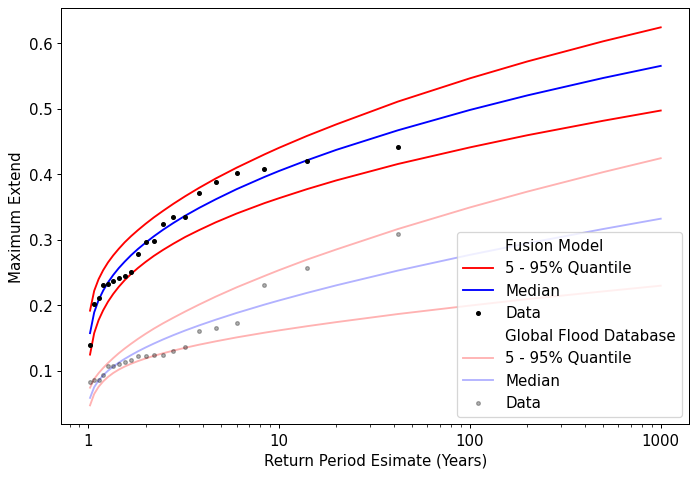
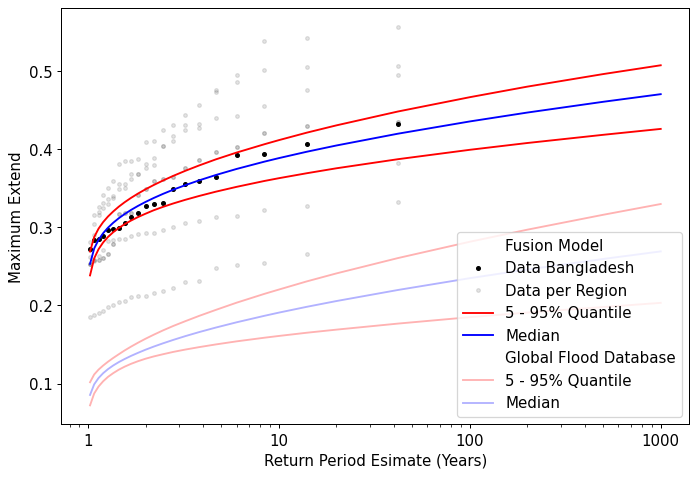
deploy: cbd2eb12271dded113b60988c62bbb71b39edd07

diff --git a/index.html b/index.html
@@ -1,4 +1,4 @@
-<!DOCTYPE html PUBLIC "-//W3C//DTD XHTML 1.0 Transitional//EN" "http://www.w3.org/TR/xhtml1/DTD/xhtml1-transitional.dtd"><html lang="en"><head><meta charset="UTF-8" /><meta content="width=device-width, initial-scale=1" name="viewport" /><link href="/Stylesheets/mainLayout.css" rel="stylesheet" /><link crossorigin="anonymous" href="https://cdnjs.cloudflare.com/ajax/libs/font-awesome/5.14.0/css/all.min.css" integrity="sha512-1PKOgIY59xJ8Co8+NE6FZ+LOAZKjy+KY8iq0G4B3CyeY6wYHN3yt9PW0XpSriVlkMXe40PTKnXrLnZ9+fkDaog==" rel="stylesheet" /><script crossorigin="anonymous" src="https://kit.fontawesome.com/4d394c7085.js"></script><link href="Images/Favicon/apple-touch-icon.png" rel="apple-touch-icon" sizes="180x180" /><link href="Images/Favicon/favicon-32x32.png" rel="icon" sizes="32x32" type="image/png" /><link href="Images/Favicon/favicon-16x16.png" rel="icon" sizes="16x16" type="image/png" /><link href="Images/Favicon/site.webmanifest" rel="manifest" /><link color="#ffe986" href="Images/Favicon/safari-pinned-tab.svg" rel="mask-icon" /><link href="Images/Favicon/favicon.ico" rel="shortcut icon" /><meta content="#da532c" name="msapplication-TileColor" /><meta content="Images/Favicon/browserconfig.xml" name="msapplication-config" /><meta content="#ff5353" name="theme-color" /><title>Jonathan Giezendanner</title><meta content="Jonathan Giezendanner" name="twitter:title" /><meta content="Jonathan Giezendanner" name="twitter:site" /><meta content="website" prefix="og: http://ogp.me/ns#" property="og:type" /><meta content="summary" name="twitter:card" /><meta content="Welcome to the personal website of Jonathan Giezendanner" name="description" /><meta content="Welcome to the personal website of Jonathan Giezendanner" name="twitter:description" /><meta content="https://www.jgiezendanner.com/Images/Profile.png" prefix="og: http://ogp.me/ns#" property="og:image" /><meta content="https://www.jgiezendanner.com/Images/Profile.png" name="twitter:image" /><link href="/Stylesheets/index.css" rel="stylesheet" /></head><body><div id="aboutMe"></div><div class="headerImage"><div class="column"><div class="profileTitle">Dr. Jonathan <b>Giezendanner</b><br />PhD, Engineer</div></div></div><div class="index"><div class="column"><div class="profileImage"><img src="./Images/Profile.png" /></div><div class="headerIcons"><div id="navigation"><nav><a href="#aboutMe"><i class="fa-solid fa-user"></i> About me</a><a href="#science"><i class="fa-solid fa-rocket"></i> Science</a><a href="#gameDev"><i class="fa-solid fa-gamepad"></i> Game Dev</a></nav></div><div class="social"><nav><a class="icon icon-linkedin" href="https://www.linkedin.com/in/j-giezendanner/" rel="noopener noreferrer" target="_blank"></a><a class="icon icon-github" href="https://github.com/GieziJo" rel="noopener noreferrer" target="_blank"></a><a class="icon icon-scholar" href="https://scholar.google.ch/citations?user=cNxEnK4AAAAJ" rel="noopener noreferrer" target="_blank"></a><a class="icon icon-twitter" href="https://twitter.com/JoGiezi" rel="noopener noreferrer" target="_blank"></a></nav></div></div><div class="contentSection"><div class="intro" id="aboutMeIntro">Passionate about the natural environment, machine learning and remote sensing, my principal focus is on <b class="highlightText">Deep Learning</b> using <b class="highlightText">Remote Sensing</b> applied to <b class="highlightText">Flood Mapping</b> and other environmental and societal challenges.<br /><br />Interested in technology, I am proficient in multiple programing languages (e.g. c#, Python, javascript) and frameworks, such as <a href="https://www.fast.ai/">fast.ai</a>, <a href="https://pytorch.org/">PyTorch</a>, and <a href="https://code.earthengine.google.com/">Google Earth Engine</a>, as well as <a href="https://www.docker.com/">Docker</a> for deployment and HPCs for model training.<br /><br />Currently Postdoctoral Research Associate at the <a href="https://www.arizona.edu/" rel="noopener noreferrer" target="_blank">Univerity of Arizona</a> in the <a href="https://beth-tellman.github.io/" rel="noopener noreferrer" target="_blank">Social [Pixel] Lab</a> led by Prof. E. Tellman Sullivan in Tucson.<br /><a class="LearnMoreLink" href="#science">➞ My research</a><br /><br />As a passion project, I co-founded the company <a href="https://earlycoffee.games/" rel="noopener noreferrer" target="_blank">Early Coffee Games</a> where I am the lead developer.<br /><a class="LearnMoreLink" href="#gameDev">➞ My Game Dev Studio</a><br /><br /><br /><a href="CV_Giezendanner.pdf" id="fullCV" rel="noopener noreferrer" target="_blank"><i class="fa-solid fa-file"></i> Full CV</a></div></div></div><div id="background"><div class="column"><div class="contentSection"><h1>About Me</h1>With a background in <b>Environmental and Computational Engineering and Sciences</b>, from the <a href="https://epfl.ch/en" rel="noopener noreferrer" target="_blank">Swiss Federal Institute of Technology Lausanne</a>, I had an education which allowed me to marry modeling with environmental problems and its applications.<br /><br />My PhD in thereotical ecology at the <a href="https://www.epfl.ch/labs/echo/">Laboratory of Ecohydrology</a> led by Prof. A. Rinaldo, allowed me to get a deep understanding in mathematical modeling applied to process based models, all while furthering my knowledge in probabilities, statistics, and machine learning models.<br /><br />Currently working in the <a href="https://beth-tellman.github.io/" rel="noopener noreferrer" target="_blank">Social [Pixel] Lab</a> led by Prof. E. Tellman Sullivan at the <a href="https://www.arizona.edu/">University of Arizona</a>, I am expanding my understanding of <b>Deep Learning</b> methods applied to floods and other challenging problems linked to the environment and its impact on society.<br /><br />In my spare time, I co-founded the company <a href="https://earlycoffee.games/" rel="noopener noreferrer" target="_blank">Early Coffee Games</a> with a good friend of mine. We have been active in the game development scene for about 10 years, and are currently developing our first commercial game, <a href="https://Underwatertale.com">Hermit: an Underwater Tale</a>. The game has received several grants for its development and promotion.<br /><br />In my free time, I enjoy mountaineering, skiing (when I'm not living in the desert), road and mountain biking, board and video games, movies, music (especially music festivals, I used to organise one), and last but not least, cheese, coffee and beer.</div></div></div><div id="science"><div class="column"><div class="contentSection"><h1>Science</h1><div class="intro">The common theme throughout my work has been mathematical modeling of environmental challenges, be it as it currently is flood mapping with deep learning, or previously process based models of population dynamics.<br /><br />In both my current and past work, optimisation and inference have played a major role.<br /><br />Presented here are chosen topics of my current and past work (wip).</div></div></div></div><div id="scienceCurrent"><div class="column"><div class="contentSection"><h2>Current Work</h2>My current work focuses on developing novel Deep Learning solutions to Remote Sensing products in order to address environmental and societal challenges, mainly, but not exclusively, flood mapping.<br /><br />Presented here is my main work on flood mapping.<br /><br /></div></div><div id="NIP"><div class="column"><div class="contentSection"><div class="scienceWorkContent"><h3>Historical Mapping of Bangladesh Floods - MODIS / Sentinel-1 DL Fusion</h3>Economic impacts of floods push people into poverty and cause setbacks to development as government budgets are stretched and people without financial protection are forced to sell assets.<br /><br />Accurate return period estimates of flood events are paramount to develop robust insurance products.<br /><br />By combining historical MODIS satellite images with modern Sentinel-1 images, we produce reliable return period estimates.<br /><br /><div class="NIPInsert" id="NIPModelImg"><a href="./Images/Science/NIP/FrameworkSchemaModel.png" rel="noopener noreferrer" target="_blank"><img src="./Images/Science/NIP/FrameworkSchemaModel.png" /></a><span>Schematic representation of the proposed framework. Based on a Sentinel-1 derived flood map, aggregated at 500 meter resolution, we train a fusion model which infers the fraction of flooded area in each pixel based on MODIS features.</span></div><br />The proposed framework takes advantage of the ability of radar to "see" water even through clouds, one of the major challenges of flood mapping.<div class="NIPInsert rightInsert" id="NIModel"><a href="./Images/Science/NIP/modelSchema.png" rel="noopener noreferrer" target="_blank"><img src="./Images/Science/NIP/modelSchema.png" /></a><span>Details of Fusion model consisting in a series of Convolutional Neural Networks (CNNs) applied to MODIS 8-days composite images, passed through a Long Short Term Memory (LSTM) network, and later merged with the MODIS image at time t, to finally go through a last CNN.</span></div><br /><br />By crating a model able to fuse MODIS 8-days  composite images with Sentinel-1 derived fraction of flooded area, we infer a 20 years long historical time series over Bangladesh based on the 20 years long MODIS time series.<br /><br />The data to train, test and validate the model is comprised of every 32x32 500 meters resolution chip where MODIS 8days composite and Sentinel-1 fully overlap. Sentinel-1 is available since 2017.<br /><br />The proposed model takes advantage of both the spatial and temporal information contained in MODIS images.<br /><br />For each time step, the n previous time steps are considered to make a prediction on the fraction of flooded area, leveraging the temporal dynamics of floods.<br /><br />Each image first goes through a <a href="https://towardsdatascience.com/a-comprehensive-guide-to-convolutional-neural-networks-the-eli5-way-3bd2b1164a53" rel="noopener noreferrer" target="_blank">Convolutional Neural Network (CNN)</a>, extracting the spatial information and compiling the multi bands information into a single value for each pixel.<br /><br />This generates a series of values for each pixel, which is then passed through a <a href="https://colah.github.io/posts/2015-08-Understanding-LSTMs/" rel="noopener noreferrer" target="_blank">Long Short Term Memory (LSTM)</a> network designed to, through a series of gates, predict the probability of flood to be present.<br /><br />Finally, the output of the LSTM is combined with the MODIS composite image at time t and passed through a final CNN, generating a prediction for the fraction of flooded area for each pixel in the image.<br /><br /><div id="NIPResult"><div class="NIPInsert" id="NIPMappedImg"><a href="./Images/Science/NIP/Mapped.png" rel="noopener noreferrer" target="_blank"><img src="./Images/Science/NIP/Mapped.png" /></a><span>MODIS False Color Composite (FCC) along with Observed and Inferred fraction of flooded area, result of deep learning fusion between MODIS and derived Sentinel-1 data, with error, for a chosen date selected out of the testing Set (Aug. 7 2018).</span></div><div class="NIPInsert" id="NIPErrorImg"><a href="./Images/Science/NIP/ErrorDistribution.png" rel="noopener noreferrer" target="_blank"><img src="./Images/Science/NIP/ErrorDistribution.png" /></a><span>Error distribution for a single day (Aug. 7 2018) between the observation (Sentinel-1 algorithm) and Model.</span></div></div><br /><div class="NIPInsert leftInsert" id="NIPTimeSeriesImg"><a href="./Images/Science/NIP/TimeSeries.png" rel="noopener noreferrer" target="_blank"><img src="./Images/Science/NIP/TimeSeries.png" /></a><span>Observed and Inferred time series of fraction of flooded area for a single chip (see above) for the training and testing set. This model is used for the historical time series inference (see below).</span></div><br /><br />For the testing, a single year (2018) is completely removed from the dataset.<br /><br />The result of the developed fusion model is shown here for a single day (August 7 2018) on all available chips for this day, and as a time series for the highlighted chip for all dates this chip is present, as examples of inference on the testing dataset.<br /><br />The 
-  var R<sup>2</sup> of 0.72 shows a good agreement between the observed and modeled data.<br /><br />The time series shows that the low water values during the dry season are well modeled, and the peaks during the monsoon and irrigation season correctly reproduced.<br /><br />This result permits us to run inference on the historical data in order to produce an estimate for 2001-2020.<br /><br /><div id="NIPResult"><div class="NIPInsert" id="NIPYearlyMaxImg"><a href="./Images/Science/NIP/YearlyMaximum.png" rel="noopener noreferrer" target="_blank"><img src="./Images/Science/NIP/YearlyMaximum.png" /></a><span>Historical yearly maxima of fraction of flooded area inferred from the trained model and run on the historical MODIS dataset. Comparison with the <a href="https://github.com/cloudtostreet/MODIS_GlobalFloodDatabase" target="_blank" rel="noopener noreferrer"> Global Flood Database algorithm (GFD)</a>.</span></div><div class="NIPInsert" id="NIPReturnPeriodImg"><a href="./Images/Science/NIP/ReturnPeriod.png" rel="noopener noreferrer" target="_blank"><img src="./Images/Science/NIP/ReturnPeriod.png" /></a><span>Return period estimates based on the newly proposed MODIS Sentinel-1 fusion algorithm and on the GFD algorithm for the historical time series 2001-2020.</span></div></div><br />The yearly maximum of the inferred historical data is compared to another MODIS algorithm, the <a href="https://github.com/cloudtostreet/MODIS_GlobalFloodDatabase" target="_blank" rel="noopener noreferrer">Global Flood Database algorithm (GFD)</a> for the same area and period.<br /><br />The developed methods shows similar trends with GFD, but a more realistic yearly maximum according to the time series analysis above.<br /><br />This inferred data permits to construct more realistic return period estimates.<br /></div></div></div></div></div><div id="publications"><div class="column"><div class="contentSection"><h2>Publications</h2><div id="papers"><div class="paper" onclick="window.open('https://agupubs.onlinelibrary.wiley.com/doi/full/10.1029/2021WR029813')"><div class="paperTitle">A note on the role of seasonal expansions and contractions of the flowing fluvial network on metapopulation persistence</div><div class="paperInfo"><b>Giezendanner, J</b>, Benettin, P, Durighetto, N, Botter, G, Rinaldo, A<br /><i>Water Resources Research, 2021</i></div></div><div class="paper" onclick="window.open('https://www.pnas.org/doi/10.1073/pnas.1919580117')"><div class="paperTitle">Earth and field observations underpin metapopulation dynamics in complex landscapes: Near-term study on carabids</div><div class="paperInfo"><b>Giezendanner, J</b>, Pasetto, D, Perez-Saez, J, Cerrato, C, Viterbi, R, Terzago, S, Palazzi, E, Rinaldo, A<br /><i>Proceedings of the National Academy of Sciences, 2020</i></div></div><div class="paper" onclick="window.open('https://infoscience.epfl.ch/record/273932?ln=en')"><div class="paperTitle">Beyond the patch: on landscape-explicit metapopulation dynamics</div><div class="paperInfo"><b>Giezendanner, J</b><br /><i>PhD Thesis, 2020</i></div></div><div class="paper" onclick="window.open('https://www.sciencedirect.com/science/article/pii/S0022519318305848')"><div class="paperTitle">On the probabilistic nature of the species-area relation</div><div class="paperInfo">Zaoli, S, Giometto, A, <b>Giezendanner, J</b>, Maritan, A, Rinaldo, A<br /><i>Journal of Theoretical Biology, 2019</i></div></div><div class="paper" onclick="window.open('https://journals.plos.org/plosone/article?id=10.1371/journal.pone.0213775')"><div class="paperTitle">A minimalist model of extinction and range dynamics of virtual mountain species driven by warming temperatures</div><div class="paperInfo"><b>Giezendanner, J</b>, Bertuzzo, E, Pasetto, D, Guisan, A, Rinaldo, A<br /><i>PLoS One, 2019</i></div></div><div class="paper" onclick="window.open('https://ieeexplore.ieee.org/document/7759277')"><div class="paperTitle">Towards 3-D distributed odor source localization: an extended graph-based formation control algorithm for plume tracking</div><div class="paperInfo">Soares, J M, Marjovi, A, <b>Giezendanner, J</b>, Kodiyan, A, Aguiar, A P, Pascoal, A M, Martinoli, A<br /><i>IEEE/RSJ International Conference on Intelligent Robots and Systems (IROS), 2016</i></div></div><div class="paper" onclick="window.open('https://archive.ismrm.org/2016/0022.html')"><div class="paperTitle">Automatic quality assessment of short and long-TE brain tumour MRSI data using novel Spectral Features</div><div class="paperInfo">de Barros, N P, McKinley, R, <b>Giezendanner, J</b>, Knecht, U, Wiest, R, Slotboom, J<br /><i>Proc. Intl. Soc. Mag. Reson. Med, 2016</i></div></div><div class="paper" onclick="window.open('https://infoscience.epfl.ch/record/213510?ln=en')"><div class="paperTitle">Rainfall Forecasting in Burkina Faso Using Bayesian-Wavelet Neural Networks</div><div class="paperInfo"><b>Giezendanner, J</b><br /><i>Master Thesis, 2015</i></div></div></div></div></div></div><div id="gameDev"><div class="column"><div class="contentSection"><h1>Game Development</h1><div class="EarlyCoffeeImg" onclick="window.open('https://EarlyCoffee.Games')"><img src="./Images/GameDev/EarlyCoffeeGamesLogo.png" /></div><div class="intro">Hobby game developer since 2014, I turned semi-professional in 2020 by co-founding <a href="https://EarlyCoffee.Games" rel="noopener noreferrer" target="_blank">Early Coffee Games</a>. We are currently developing <a href="https://Underwatertale.com" rel="noopener noreferrer" target="_blank">Hermit: an Underwater Tale</a>.<br /></div><h2>Backstory</h2>Game development started for me as a silly distraction and creative outlet in 2014 when Tristan Thévenoz approached me. Tristan is a classically educated artist, proficient in multiple forms of expression and passionate about the creative process. His love of video games led him to dabble in pixel art in 2013, and he was then looking for somebody to work with, on the technical aspect. This is when he approached me, and we soon became friends and started working on one silly project after the other.<br /><br />In our early days, we had the chance to get approached by an artist called <a href="https://www.francoisburland.com/" rel="noopener noreferrer" target="_blank">François Burland</a>, who was interested in hiring us to create video games for his arts installation. Over the course of three years, under the umbrella of <a href="https://sharpedstonestudios.ch" rel="noopener noreferrer" target="_blank">Sharped Stone Studios</a> , we participated in two different arts installation, each time trying to incorporate the essence of the artists' vision we were working with:<ul><li><b>SuperNova (2017)</b>, set in Martigny, a small town in the middle of the Alps in Switzerland, the exhibition focused on cultural landmarks in and around Martigny, reinterpreted by various artists. We developed <a href="https://itch.io/c/392769/supernova-martigny" rel="noopener noreferrer" target="_blank">two games</a> dedicated to the pizza places and roundabouts, both very abundant in Martigny.</li><li><b>Atomic Bazar (2018 - 2019)</b>, set in Fribourg, this exhibition was set around François' vision of the cold war. We developed <a href="https://itch.io/c/379794/atomik-bazar">four games</a>, meant to encaplusalte his vision and art into games.</li></ul><h2>Early Coffee Games</h2><a href="https://EarlyCoffee.Games" rel="noopener noreferrer" target="_blank">Early Coffee Games</a> is a game development company based in Switzerland we created in 2020 with Tristan. The company is our step into semi-professional game development.<br /><br />Since its creation, the company can note a couple of successes:<ul><li>In 2020 we received the <b><a href="https://prohelvetia.ch" target="_blank"  rel="noopener noreferrer">ProHelvetia</a> pre-production grant</b> for our debut game 
+<!DOCTYPE html PUBLIC "-//W3C//DTD XHTML 1.0 Transitional//EN" "http://www.w3.org/TR/xhtml1/DTD/xhtml1-transitional.dtd"><html lang="en"><head><meta charset="UTF-8" /><meta content="width=device-width, initial-scale=1" name="viewport" /><link href="/Stylesheets/mainLayout.css" rel="stylesheet" /><link crossorigin="anonymous" href="https://cdnjs.cloudflare.com/ajax/libs/font-awesome/5.14.0/css/all.min.css" integrity="sha512-1PKOgIY59xJ8Co8+NE6FZ+LOAZKjy+KY8iq0G4B3CyeY6wYHN3yt9PW0XpSriVlkMXe40PTKnXrLnZ9+fkDaog==" rel="stylesheet" /><script crossorigin="anonymous" src="https://kit.fontawesome.com/4d394c7085.js"></script><link href="Images/Favicon/apple-touch-icon.png" rel="apple-touch-icon" sizes="180x180" /><link href="Images/Favicon/favicon-32x32.png" rel="icon" sizes="32x32" type="image/png" /><link href="Images/Favicon/favicon-16x16.png" rel="icon" sizes="16x16" type="image/png" /><link href="Images/Favicon/site.webmanifest" rel="manifest" /><link color="#ffe986" href="Images/Favicon/safari-pinned-tab.svg" rel="mask-icon" /><link href="Images/Favicon/favicon.ico" rel="shortcut icon" /><meta content="#da532c" name="msapplication-TileColor" /><meta content="Images/Favicon/browserconfig.xml" name="msapplication-config" /><meta content="#ff5353" name="theme-color" /><title>Jonathan Giezendanner</title><meta content="Jonathan Giezendanner" name="twitter:title" /><meta content="Jonathan Giezendanner" name="twitter:site" /><meta content="website" prefix="og: http://ogp.me/ns#" property="og:type" /><meta content="summary" name="twitter:card" /><meta content="Welcome to the personal website of Jonathan Giezendanner" name="description" /><meta content="Welcome to the personal website of Jonathan Giezendanner" name="twitter:description" /><meta content="https://www.jgiezendanner.com/Images/Profile.png" prefix="og: http://ogp.me/ns#" property="og:image" /><meta content="https://www.jgiezendanner.com/Images/Profile.png" name="twitter:image" /><link href="/Stylesheets/index.css" rel="stylesheet" /></head><body><div id="aboutMe"></div><div class="headerImage"><div class="column"><div class="profileTitle">Dr. Jonathan <b>Giezendanner</b><br />PhD, Engineer</div></div></div><div class="index"><div class="column"><div class="profileImage"><img src="./Images/Profile.png" /></div><div class="headerIcons"><div id="navigation"><nav><a href="#aboutMe"><i class="fa-solid fa-user"></i> About me</a><a href="#science"><i class="fa-solid fa-rocket"></i> Science</a><a href="#gameDev"><i class="fa-solid fa-gamepad"></i> Game Dev</a></nav></div><div class="social"><nav><a class="icon icon-linkedin" href="https://www.linkedin.com/in/j-giezendanner/" rel="noopener noreferrer" target="_blank"></a><a class="icon icon-github" href="https://github.com/GieziJo" rel="noopener noreferrer" target="_blank"></a><a class="icon icon-scholar" href="https://scholar.google.ch/citations?user=cNxEnK4AAAAJ" rel="noopener noreferrer" target="_blank"></a><a class="icon icon-twitter" href="https://twitter.com/JoGiezi" rel="noopener noreferrer" target="_blank"></a></nav></div></div><div class="contentSection"><div class="intro" id="aboutMeIntro">Passionate about the natural environment, machine learning and remote sensing, my principal focus is on <b class="highlightText">Deep Learning</b> using <b class="highlightText">Remote Sensing</b> applied to <b class="highlightText">Flood Mapping</b> and other environmental and societal challenges.<br /><br />Interested in technology, I am proficient in multiple programing languages (e.g. c#, Python, javascript) and frameworks, such as <a href="https://www.fast.ai/">fast.ai</a>, <a href="https://pytorch.org/">PyTorch</a>, and <a href="https://code.earthengine.google.com/">Google Earth Engine</a>, as well as <a href="https://www.docker.com/">Docker</a> for deployment and HPCs for model training.<br /><br />Currently Postdoctoral Research Associate at the <a href="https://www.arizona.edu/" rel="noopener noreferrer" target="_blank">Univerity of Arizona</a> in the <a href="https://beth-tellman.github.io/" rel="noopener noreferrer" target="_blank">Social [Pixel] Lab</a> led by Prof. E. Tellman Sullivan in Tucson.<br /><a class="LearnMoreLink" href="#science">➞ My research</a><br /><br />As a passion project, I co-founded the company <a href="https://earlycoffee.games/" rel="noopener noreferrer" target="_blank">Early Coffee Games</a> where I am the lead developer.<br /><a class="LearnMoreLink" href="#gameDev">➞ My Game Dev Studio</a><br /><br /><br /><a href="CV_Giezendanner.pdf" id="fullCV" rel="noopener noreferrer" target="_blank"><i class="fa-solid fa-file"></i> Full CV</a></div></div></div><div id="background"><div class="column"><div class="contentSection"><h1>About Me</h1>With a background in <b>Environmental and Computational Engineering and Sciences</b>, from the <a href="https://epfl.ch/en" rel="noopener noreferrer" target="_blank">Swiss Federal Institute of Technology Lausanne</a>, I had an education which allowed me to marry modeling with environmental problems and its applications.<br /><br />My PhD in thereotical ecology at the <a href="https://www.epfl.ch/labs/echo/">Laboratory of Ecohydrology</a> led by Prof. A. Rinaldo, allowed me to get a deep understanding in mathematical modeling applied to process based models, all while furthering my knowledge in probabilities, statistics, and machine learning models.<br /><br />Currently working in the <a href="https://beth-tellman.github.io/" rel="noopener noreferrer" target="_blank">Social [Pixel] Lab</a> led by Prof. E. Tellman Sullivan at the <a href="https://www.arizona.edu/">University of Arizona</a>, I am expanding my understanding of <b>Deep Learning</b> methods applied to floods and other challenging problems linked to the environment and its impact on society.<br /><br />In my spare time, I co-founded the company <a href="https://earlycoffee.games/" rel="noopener noreferrer" target="_blank">Early Coffee Games</a> with a good friend of mine. We have been active in the game development scene for about 10 years, and are currently developing our first commercial game, <a href="https://Underwatertale.com">Hermit: an Underwater Tale</a>. The game has received several grants for its development and promotion.<br /><br />In my free time, I enjoy mountaineering, skiing (when I'm not living in the desert), road and mountain biking, board and video games, movies, music (especially music festivals, I used to organise one), and last but not least, cheese, coffee and beer.</div></div></div><div id="science"><div class="column"><div class="contentSection"><h1>Science</h1><div class="intro">The common theme throughout my work has been mathematical modeling of environmental challenges, be it as it currently is flood mapping with deep learning, or previously process based models of population dynamics.<br /><br />In both my current and past work, optimisation and inference have played a major role.<br /><br />Presented here are chosen topics of my current and past work (wip).</div></div></div></div><div id="scienceCurrent"><div class="column"><div class="contentSection"><h2>Current Work</h2>My current work focuses on developing novel Deep Learning solutions to Remote Sensing products in order to address environmental and societal challenges, mainly, but not exclusively, flood mapping.<br /><br />Presented here is my main work on flood mapping.<br /><br /></div></div><div id="NIP"><div class="column"><div class="contentSection"><div class="scienceWorkContent"><h3>Historical Mapping of Bangladesh Floods - MODIS / Sentinel-1 DL Fusion</h3>Economic impacts of floods push people into poverty and cause setbacks to development as government budgets are stretched and people without financial protection are forced to sell assets.<br /><br />Accurate return period estimates of flood events are paramount to develop robust insurance products.<br /><br />By combining historical MODIS satellite images with modern Sentinel-1 images, we produce reliable return period estimates.<br /><br /><div class="NIPInsert" id="NIPModelImg"><a href="./Images/Science/NIP/FrameworkSchemaModel.png" rel="noopener noreferrer" target="_blank"><img src="./Images/Science/NIP/FrameworkSchemaModel.png" /></a><span>Schematic representation of the proposed framework. Based on a Sentinel-1 derived flood map, aggregated at 500 meter resolution, we train a fusion model which infers the fraction of flooded area in each pixel based on MODIS features.</span></div><br />The proposed framework takes advantage of the ability of radar to "see" water even through clouds, one of the major challenges of flood mapping.<div class="NIPInsert rightInsert" id="NIModel"><a href="./Images/Science/NIP/modelSchema.png" rel="noopener noreferrer" target="_blank"><img src="./Images/Science/NIP/modelSchema.png" /></a><span>Details of Fusion model consisting in a series of Convolutional Neural Networks (CNNs) applied to MODIS 8-days composite images, passed through a Long Short Term Memory (LSTM) network, and later merged with the MODIS image at time t, to finally go through a last CNN.</span></div><br /><br />By crating a model able to fuse MODIS 8-days  composite images with Sentinel-1 derived fraction of flooded area, we infer a 20 years long historical time series over Bangladesh based on the 20 years long MODIS time series.<br /><br />The data to train, test and validate the model is comprised of every 32x32 500 meters resolution chip where MODIS 8days composite and Sentinel-1 fully overlap. Sentinel-1 is available since 2017.<br /><br />The proposed model takes advantage of both the spatial and temporal information contained in MODIS images.<br /><br />For each time step, the n previous time steps are considered to make a prediction on the fraction of flooded area, leveraging the temporal dynamics of floods.<br /><br />Each image first goes through a <a href="https://towardsdatascience.com/a-comprehensive-guide-to-convolutional-neural-networks-the-eli5-way-3bd2b1164a53" rel="noopener noreferrer" target="_blank">Convolutional Neural Network (CNN)</a>, extracting the spatial information and compiling the multi bands information into a single value for each pixel.<br /><br />This generates a series of values for each pixel, which is then passed through a <a href="https://colah.github.io/posts/2015-08-Understanding-LSTMs/" rel="noopener noreferrer" target="_blank">Long Short Term Memory (LSTM)</a> network designed to, through a series of gates, predict the probability of flood to be present.<br /><br />Finally, the output of the LSTM is combined with the MODIS composite image at time t and passed through a final CNN, generating a prediction for the fraction of flooded area for each pixel in the image.<br /><br /><div class="NIPResultGrid" id="NIPResult"><div class="NIPInsert" id="NIPMappedImg"><a href="./Images/Science/NIP/Mapped.png" rel="noopener noreferrer" target="_blank"><img src="./Images/Science/NIP/Mapped.png" /></a><span>Observed and Inferred fraction of flooded area, result of deep learning fusion between MODIS and derived Sentinel-1 data, along with error (difference) and MODIS False Color Composite (FCC), for a chosen date selected out of the testing Set (Mai. 5 2020).</span></div><div class="NIPInsert" id="NIPErrorImg"><a href="./Images/Science/NIP/ErrorDistribution.png" rel="noopener noreferrer" target="_blank"><img src="./Images/Science/NIP/ErrorDistribution.png" /></a><span>Error distribution between the observation (Sentinel-1 algorithm) and Model for the full testing set.</span></div></div><br /><div class="NIPInsert leftInsert" id="NIPTimeSeriesImg"><a href="./Images/Science/NIP/TimeSeries.png" rel="noopener noreferrer" target="_blank"><img src="./Images/Science/NIP/TimeSeries.png" /></a><span>Observed and Inferred time series of fraction of flooded area for all of Bangladesh for the training and testing set. This model is used for the historical time series inference (see below).</span></div><br /><br />For the testing, a single year (2018) is completely removed from the dataset.<br /><br />The result of the developed fusion model is shown here for a single day (Mai 5 2020) on all available chips for this day, and as a time series for all of Bangladesh for all dates where chips are present, as examples of inference on the testing dataset.<br /><br />The 
+  var R<sup>2</sup> of 0.66 shows a good agreement between the observed and modeled data.<br /><br />The time series shows that the low water values during the dry season are well modeled, and the peaks during the monsoon and irrigation season correctly reproduced.<br /><br /><div class="NIPInsert" id="NIPHistoricalTimeSeries"><a href="./Images/Science/NIP/HistoricalTimeSeries.mp4" rel="noopener noreferrer" target="_blank"><video autoplay="" loop="" width="100%"><source src="./Images/Science/NIP/HistoricalTimeSeries.mp4" type="video/mp4"></video></a><span>Infered historical time series of fraction of flooded area from 2001 to 2021, produced with the fusion algorithm and based on the historical MODIS data.</span></div><br /><br />This result permits us to run inference on the historical data in order to produce an estimate for 2001-2020.<br /><br /><div id="NIPResult"><div class="NIPInsert" id="NIPYearlyMaxImg"><a href="./Images/Science/NIP/YearlyMaximum.png" rel="noopener noreferrer" target="_blank"><img src="./Images/Science/NIP/YearlyMaximum.png" /></a><span>Historical yearly maxima of fraction of flooded area inferred from the trained model and run on the historical MODIS dataset. Comparison with the <a href="https://github.com/cloudtostreet/MODIS_GlobalFloodDatabase" target="_blank" rel="noopener noreferrer"> Global Flood Database algorithm (GFD)</a> and the <a href="http://www.ffwc.gov.bd/" target='_blank' rel="noopener noreferrer">Bangladesh Flood Forecasting and Warning Center (FFWC)</a> generated maps.</span></div><div class="NIPInsert" id="NIPReturnPeriodImg"><a href="./Images/Science/NIP/ReturnPeriod.png" rel="noopener noreferrer" target="_blank"><img src="./Images/Science/NIP/ReturnPeriod.png" /></a><span>Return period estimates based on the newly proposed MODIS Sentinel-1 fusion algorithm and on the GFD algorithm for the historical time series 2001-2021.</span></div></div><br />The yearly maximum of the inferred historical data is compared to another MODIS algorithm, the <a href="https://github.com/cloudtostreet/MODIS_GlobalFloodDatabase" target="_blank" rel="noopener noreferrer">Global Flood Database algorithm (GFD)</a> for the same area and period.<br /><br />The developed methods shows similar trends with GFD, but a more realistic yearly maximum according to the time series analysis above.<br /><br />This inferred data permits to construct more realistic return period estimates.<br /></div></div></div></div></div><div id="publications"><div class="column"><div class="contentSection"><h2>Publications</h2><div id="papers"><div class="paper" onclick="window.open('https://agupubs.onlinelibrary.wiley.com/doi/full/10.1029/2021WR029813')"><div class="paperTitle">A note on the role of seasonal expansions and contractions of the flowing fluvial network on metapopulation persistence</div><div class="paperInfo"><b>Giezendanner, J</b>, Benettin, P, Durighetto, N, Botter, G, Rinaldo, A<br /><i>Water Resources Research, 2021</i></div></div><div class="paper" onclick="window.open('https://www.pnas.org/doi/10.1073/pnas.1919580117')"><div class="paperTitle">Earth and field observations underpin metapopulation dynamics in complex landscapes: Near-term study on carabids</div><div class="paperInfo"><b>Giezendanner, J</b>, Pasetto, D, Perez-Saez, J, Cerrato, C, Viterbi, R, Terzago, S, Palazzi, E, Rinaldo, A<br /><i>Proceedings of the National Academy of Sciences, 2020</i></div></div><div class="paper" onclick="window.open('https://infoscience.epfl.ch/record/273932?ln=en')"><div class="paperTitle">Beyond the patch: on landscape-explicit metapopulation dynamics</div><div class="paperInfo"><b>Giezendanner, J</b><br /><i>PhD Thesis, 2020</i></div></div><div class="paper" onclick="window.open('https://www.sciencedirect.com/science/article/pii/S0022519318305848')"><div class="paperTitle">On the probabilistic nature of the species-area relation</div><div class="paperInfo">Zaoli, S, Giometto, A, <b>Giezendanner, J</b>, Maritan, A, Rinaldo, A<br /><i>Journal of Theoretical Biology, 2019</i></div></div><div class="paper" onclick="window.open('https://journals.plos.org/plosone/article?id=10.1371/journal.pone.0213775')"><div class="paperTitle">A minimalist model of extinction and range dynamics of virtual mountain species driven by warming temperatures</div><div class="paperInfo"><b>Giezendanner, J</b>, Bertuzzo, E, Pasetto, D, Guisan, A, Rinaldo, A<br /><i>PLoS One, 2019</i></div></div><div class="paper" onclick="window.open('https://ieeexplore.ieee.org/document/7759277')"><div class="paperTitle">Towards 3-D distributed odor source localization: an extended graph-based formation control algorithm for plume tracking</div><div class="paperInfo">Soares, J M, Marjovi, A, <b>Giezendanner, J</b>, Kodiyan, A, Aguiar, A P, Pascoal, A M, Martinoli, A<br /><i>IEEE/RSJ International Conference on Intelligent Robots and Systems (IROS), 2016</i></div></div><div class="paper" onclick="window.open('https://archive.ismrm.org/2016/0022.html')"><div class="paperTitle">Automatic quality assessment of short and long-TE brain tumour MRSI data using novel Spectral Features</div><div class="paperInfo">de Barros, N P, McKinley, R, <b>Giezendanner, J</b>, Knecht, U, Wiest, R, Slotboom, J<br /><i>Proc. Intl. Soc. Mag. Reson. Med, 2016</i></div></div><div class="paper" onclick="window.open('https://infoscience.epfl.ch/record/213510?ln=en')"><div class="paperTitle">Rainfall Forecasting in Burkina Faso Using Bayesian-Wavelet Neural Networks</div><div class="paperInfo"><b>Giezendanner, J</b><br /><i>Master Thesis, 2015</i></div></div></div></div></div></div><div id="gameDev"><div class="column"><div class="contentSection"><h1>Game Development</h1><div class="EarlyCoffeeImg" onclick="window.open('https://EarlyCoffee.Games')"><img src="./Images/GameDev/EarlyCoffeeGamesLogo.png" /></div><div class="intro">Hobby game developer since 2014, I turned semi-professional in 2020 by co-founding <a href="https://EarlyCoffee.Games" rel="noopener noreferrer" target="_blank">Early Coffee Games</a>. We are currently developing <a href="https://Underwatertale.com" rel="noopener noreferrer" target="_blank">Hermit: an Underwater Tale</a>.<br /></div><h2>Backstory</h2>Game development started for me as a silly distraction and creative outlet in 2014 when Tristan Thévenoz approached me. Tristan is a classically educated artist, proficient in multiple forms of expression and passionate about the creative process. His love of video games led him to dabble in pixel art in 2013, and he was then looking for somebody to work with, on the technical aspect. This is when he approached me, and we soon became friends and started working on one silly project after the other.<br /><br />In our early days, we had the chance to get approached by an artist called <a href="https://www.francoisburland.com/" rel="noopener noreferrer" target="_blank">François Burland</a>, who was interested in hiring us to create video games for his arts installation. Over the course of three years, under the umbrella of <a href="https://sharpedstonestudios.ch" rel="noopener noreferrer" target="_blank">Sharped Stone Studios</a> , we participated in two different arts installation, each time trying to incorporate the essence of the artists' vision we were working with:<ul><li><b>SuperNova (2017)</b>, set in Martigny, a small town in the middle of the Alps in Switzerland, the exhibition focused on cultural landmarks in and around Martigny, reinterpreted by various artists. We developed <a href="https://itch.io/c/392769/supernova-martigny" rel="noopener noreferrer" target="_blank">two games</a> dedicated to the pizza places and roundabouts, both very abundant in Martigny.</li><li><b>Atomic Bazar (2018 - 2019)</b>, set in Fribourg, this exhibition was set around François' vision of the cold war. We developed <a href="https://itch.io/c/379794/atomik-bazar">four games</a>, meant to encaplusalte his vision and art into games.</li></ul><h2>Early Coffee Games</h2><a href="https://EarlyCoffee.Games" rel="noopener noreferrer" target="_blank">Early Coffee Games</a> is a game development company based in Switzerland we created in 2020 with Tristan. The company is our step into semi-professional game development.<br /><br />Since its creation, the company can note a couple of successes:<ul><li>In 2020 we received the <b><a href="https://prohelvetia.ch" target="_blank"  rel="noopener noreferrer">ProHelvetia</a> pre-production grant</b> for our debut game 
  <a href='https://Underwatertale.com' target="_blank"  rel="noopener noreferrer">Hermit: an Underwater Tale</a> (see below)
  . This allowed us to hire <a href="https://www.maneingreen.com/" target="_blank"  rel="noopener noreferrer">Plume Oggier</a> for creating the game's music, <a href="https://www.linkedin.com/in/gwenbuord/" target="_blank"  rel="noopener noreferrer">Gwen Buord</a> to produce the game's sounds, as well as <a href="https://www.linkedin.com/in/jonathan-fellay-41ba01ba/" target="_blank"  rel="noopener noreferrer">Jonathan Fellay</a> for the narrative part of the adventure. <a href="https://earlycoffee.games/ChroMaticRacing/" target="_blank" rel="noopener noreferrer"><img class=rightInsert id=chromaticImage src="./Images/GameDev/chromatic.png"></a> </li><li>In 2021 the museum <a href="https://www.fr.ch/mahf/espace-jean-tinguely-niki-de-saint-phalle" target="_blank" rel="noopener noreferrer">Espace Jean-Tinguely Nicki de Saint Phalle</a> contracted us to create a unique art piece complementing their exhibition. We created <a href="https://earlycoffee.games/ChroMaticRacing/" target="_blank" rel="noopener noreferrer">Chromatic Racing</a>, an interactive piece, which invites the visitor to create a piece of art by playing the game. The piece is exposed form 2019 to 2024.</li><li>In 2022 we were selected for the Swiss delegation to go to the <a href="https://gdconf.com/" target="_blank" rel="noopener noreferrer">Games Developers Conference (GDC)</a> in San-Francisco, where we showed Hermit.</li></ul>The main focus of the studio is currently to develop Hermit.</div></div><div id="Hermit"><div class="column"><a href="https://Underwatertale.com" rel="noopener noreferrer" target="_blank"><div class="HermitLogo"><img src="./Images/GameDev/HermitLogo.png" /></div></a><br /><div class="HermitContent"><a href="https://Underwatertale.com" rel="noopener noreferrer" target="_blank">Hermit: an Underwater Tale</a> is currently the studio's main focus. The game is a fast paced action game with arcade elements. You play as a hermit crab who faces waves of creeps and dangerous sea creatures.<br /><br />In order to protect yourself and defeat your enemies, you will use a wide variety of empty shells as weapons. Each shell comes with a specific set of moves and attacks and will eventually break after use.<br /><br />Without any shell, the hermit is fully exposed and any damage he receives will be lethal. The game features a simple core mechanic paired with a high and ever increasing difficulty over multiple levels.<br /><br />In order to beat the game, you will have to combine skill, real-time resources management, smart item purchases, upgrade strategies and serious stamina in order to survive.<br /><br /><br /><br />Feel free to check it out and let us know what you think!</div><div class="HermitFrame"><iframe frameborder="0" height="190" src="https://store.steampowered.com/widget/1773740/" width="646"></iframe></div></div></div></div><div class="copyright">© 2022 Jonathan Giezendanner<br />Source code for this website avaialable under MIT Licence on <a href="https://github.com/GieziJo/GieziJo.github.io" rel="noopener noreferrer" target="_blank">Github</a></div></div><script>var scrollFun = function() {(window.scrollY > 350) ? navigation.classList.add("activateNavigation"):navigation.classList.remove("activateNavigation")};</script><script>window.addEventListener("scroll", scrollFun);</script><script>scrollFun();</script></body></html>

diff --git a/Stylesheets/index.css b/Stylesheets/index.css
@@ -379,24 +379,36 @@ a {
     text-align: justify; }
 
 @media only screen and (min-width: 1100px) {
+  .NIPResultGrid {
+    display: flex; }
   #NIPMappedImg {
-    width: 500px;
-    margin-left: -50px;
-    display: inline-block; }
+    width: 700px;
+    margin-left: -100px;
+    display: flex; }
+    #NIPMappedImg a img {
+      height: 100%; }
+    #NIPMappedImg span {
+      margin-left: 20px;
+      margin-top: auto;
+      margin-bottom: auto; }
   #NIPErrorImg {
     display: inline-block;
-    width: 305px;
+    width: 320px;
     margin-left: 50px; }
   #NIPTimeSeriesImg {
     width: 500px;
     margin-left: -300px; }
+  #NIPHistoricalTimeSeries {
+    max-width: 600px;
+    margin-left: auto;
+    margin-right: auto; }
   #NIPYearlyMaxImg {
-    width: 400px;
-    margin-left: -50px;
+    width: 500px;
+    margin-left: -70px;
     display: inline-block; }
   #NIPReturnPeriodImg {
     display: inline-block;
-    width: 340px;
+    width: 350px;
     margin-left: 50px; }
   #NIPResult {
     width: 900px; } }
